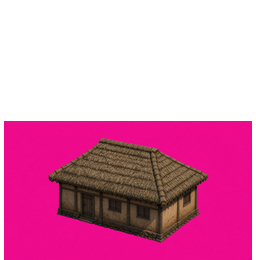
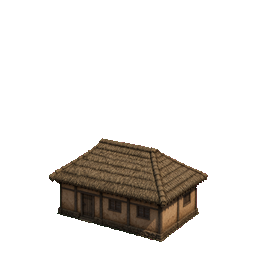
건물·프롭 마젠타 헤일로 제거
JPEG #FF00FF 잔상과 분홍 바닥 원반을 크로마로 걷어냈다.

diff --git a/game/asset-data.js b/game/asset-data.js
@@ -1,1 +1,1 @@
-const ASSET_DATA = {"assets": {"terr_cave": {"kind": "texture", "data": "assets/tex/terr_cave.jpg"}, "terr_dirt": {"kind": "texture", "data": "assets/tex/terr_dirt.jpg"}, "terr_floor": {"kind": "texture", "data": "assets/tex/terr_floor.jpg"}, "terr_grass": {"kind": "texture", "data": "assets/tex/terr_grass.jpg"}, "terr_mud": {"kind": "texture", "data": "assets/tex/terr_mud.jpg"}, "terr_pier": {"kind": "texture", "data": "assets/tex/terr_pier.jpg"}, "terr_reed": {"kind": "texture", "data": "assets/tex/terr_reed.jpg"}, "terr_rock": {"kind": "texture", "data": "assets/tex/terr_rock.jpg"}, "terr_salt": {"kind": "texture", "data": "assets/tex/terr_salt.jpg"}, "terr_sand": {"kind": "texture", "data": "assets/tex/terr_sand.jpg"}, "terr_sea": {"kind": "texture", "data": "assets/tex/terr_sea.jpg"}, "terr_stone": {"kind": "texture", "data": "assets/tex/terr_stone.jpg"}, "terr_wood": {"kind": "texture", "data": "assets/tex/terr_wood.jpg"}, "agent_dochi": {"dirs": 4, "cellW": 56, "cellH": 76, "anchorX": 28, "anchorY": 72, "clips": [{"key": "idle", "frames": 1}], "sheets": {"idle": "assets/chars/agent_dochi.png"}}, "agent_haeju": {"dirs": 4, "cellW": 56, "cellH": 76, "anchorX": 28, "anchorY": 72, "clips": [{"key": "idle", "frames": 1}], "sheets": {"idle": "assets/chars/agent_haeju.png"}}, "agent_mujin": {"dirs": 4, "cellW": 56, "cellH": 76, "anchorX": 28, "anchorY": 72, "clips": [{"key": "idle", "frames": 1}], "sheets": {"idle": "assets/chars/agent_mujin.png"}}, "agent_wolsim": {"dirs": 4, "cellW": 56, "cellH": 76, "anchorX": 28, "anchorY": 72, "clips": [{"key": "idle", "frames": 1}], "sheets": {"idle": "assets/chars/agent_wolsim.png"}}, "civil_believer": {"dirs": 4, "cellW": 56, "cellH": 76, "anchorX": 28, "anchorY": 72, "clips": [{"key": "idle", "frames": 1}], "sheets": {"idle": "assets/chars/civil_believer.png"}}, "civil_child": {"dirs": 4, "cellW": 56, "cellH": 76, "anchorX": 28, "anchorY": 72, "clips": [{"key": "idle", "frames": 1}], "sheets": {"idle": "assets/chars/civil_child.png"}}, "civil_patient": {"dirs": 4, "cellW": 56, "cellH": 76, "anchorX": 28, "anchorY": 72, "clips": [{"key": "idle", "frames": 1}], "sheets": {"idle": "assets/chars/civil_patient.png"}}, "civil_prisoner": {"dirs": 4, "cellW": 56, "cellH": 76, "anchorX": 28, "anchorY": 72, "clips": [{"key": "idle", "frames": 1}], "sheets": {"idle": "assets/chars/civil_prisoner.png"}}, "civil_villager": {"dirs": 4, "cellW": 56, "cellH": 76, "anchorX": 28, "anchorY": 72, "clips": [{"key": "idle", "frames": 1}], "sheets": {"idle": "assets/chars/civil_villager.png"}}, "guard_acolyte": {"dirs": 4, "cellW": 56, "cellH": 76, "anchorX": 28, "anchorY": 72, "clips": [{"key": "idle", "frames": 1}], "sheets": {"idle": "assets/chars/guard_acolyte.png"}}, "guard_priest": {"dirs": 4, "cellW": 56, "cellH": 76, "anchorX": 28, "anchorY": 72, "clips": [{"key": "idle", "frames": 1}], "sheets": {"idle": "assets/chars/guard_priest.png"}}, "guard_sailor": {"dirs": 4, "cellW": 56, "cellH": 76, "anchorX": 28, "anchorY": 72, "clips": [{"key": "idle", "frames": 1}], "sheets": {"idle": "assets/chars/guard_sailor.png"}}, "guard_soldier": {"dirs": 4, "cellW": 56, "cellH": 76, "anchorX": 28, "anchorY": 72, "clips": [{"key": "idle", "frames": 1}], "sheets": {"idle": "assets/chars/guard_soldier.png"}}, "guard_steward": {"dirs": 4, "cellW": 56, "cellH": 76, "anchorX": 28, "anchorY": 72, "clips": [{"key": "idle", "frames": 1}], "sheets": {"idle": "assets/chars/guard_steward.png"}}, "prop_altar": {"dirs": 1, "cellW": 60, "cellH": 52, "anchorX": 30, "anchorY": 50, "clips": [{"key": "idle", "frames": 1}], "sheets": {"idle": "assets/props/prop_altar.png"}}, "prop_belltower": {"dirs": 1, "cellW": 64, "cellH": 180, "anchorX": 32, "anchorY": 178, "clips": [{"key": "idle", "frames": 1}], "sheets": {"idle": "assets/props/prop_belltower.png"}}, "prop_boat": {"dirs": 1, "cellW": 110, "cellH": 56, "anchorX": 55, "anchorY": 54, "clips": [{"key": "idle", "frames": 1}], "sheets": {"idle": "assets/props/prop_boat.png"}}, "prop_bush": {"dirs": 1, "cellW": 56, "cellH": 48, "anchorX": 28, "anchorY": 46, "clips": [{"key": "idle", "frames": 1}], "sheets": {"idle": "assets/props/prop_bush.png"}}, "prop_cart": {"dirs": 1, "cellW": 80, "cellH": 56, "anchorX": 40, "anchorY": 54, "clips": [{"key": "idle", "frames": 1}], "sheets": {"idle": "assets/props/prop_cart.png"}}, "prop_crate": {"dirs": 1, "cellW": 44, "cellH": 44, "anchorX": 22, "anchorY": 42, "clips": [{"key": "idle", "frames": 1}], "sheets": {"idle": "assets/props/prop_crate.png"}}, "prop_jar": {"dirs": 1, "cellW": 32, "cellH": 44, "anchorX": 16, "anchorY": 42, "clips": [{"key": "idle", "frames": 1}], "sheets": {"idle": "assets/props/prop_jar.png"}}, "prop_kiln": {"dirs": 1, "cellW": 64, "cellH": 72, "anchorX": 32, "anchorY": 70, "clips": [{"key": "idle", "frames": 1}], "sheets": {"idle": "assets/props/prop_kiln.png"}}, "prop_lamp_off": {"dirs": 1, "cellW": 36, "cellH": 80, "anchorX": 18, "anchorY": 78, "clips": [{"key": "idle", "frames": 1}], "sheets": {"idle": "assets/props/prop_lamp_off.png"}}, "prop_lamp_on": {"dirs": 1, "cellW": 36, "cellH": 80, "anchorX": 18, "anchorY": 78, "clips": [{"key": "idle", "frames": 4}], "sheets": {"idle": "assets/props/prop_lamp_on.png"}}, "prop_net": {"dirs": 1, "cellW": 56, "cellH": 64, "anchorX": 28, "anchorY": 62, "clips": [{"key": "idle", "frames": 1}], "sheets": {"idle": "assets/props/prop_net.png"}}, "prop_pine": {"dirs": 1, "cellW": 80, "cellH": 160, "anchorX": 40, "anchorY": 158, "clips": [{"key": "idle", "frames": 1}], "sheets": {"idle": "assets/props/prop_pine.png"}}, "prop_rack": {"dirs": 1, "cellW": 60, "cellH": 64, "anchorX": 30, "anchorY": 62, "clips": [{"key": "idle", "frames": 1}], "sheets": {"idle": "assets/props/prop_rack.png"}}, "prop_rock": {"dirs": 1, "cellW": 52, "cellH": 40, "anchorX": 26, "anchorY": 38, "clips": [{"key": "idle", "frames": 1}], "sheets": {"idle": "assets/props/prop_rock.png"}}, "prop_stalag": {"dirs": 1, "cellW": 40, "cellH": 80, "anchorX": 20, "anchorY": 78, "clips": [{"key": "idle", "frames": 1}], "sheets": {"idle": "assets/props/prop_stalag.png"}}, "prop_stone_pile": {"dirs": 1, "cellW": 56, "cellH": 40, "anchorX": 28, "anchorY": 38, "clips": [{"key": "idle", "frames": 1}], "sheets": {"idle": "assets/props/prop_stone_pile.png"}}, "prop_tree": {"dirs": 1, "cellW": 90, "cellH": 140, "anchorX": 45, "anchorY": 138, "clips": [{"key": "idle", "frames": 1}], "sheets": {"idle": "assets/props/prop_tree.png"}}, "prop_well": {"dirs": 1, "cellW": 64, "cellH": 72, "anchorX": 32, "anchorY": 70, "clips": [{"key": "idle", "frames": 1}], "sheets": {"idle": "assets/props/prop_well.png"}}, "prop_wreck": {"dirs": 1, "cellW": 110, "cellH": 52, "anchorX": 55, "anchorY": 50, "clips": [{"key": "idle", "frames": 1}], "sheets": {"idle": "assets/props/prop_wreck.png"}}, "bld_thatch_2x2": {"dirs": 1, "cellW": 256, "cellH": 260, "anchorX": 128, "anchorY": 258, "clips": [{"key": "idle", "frames": 1}], "sheets": {"idle": "assets/bld/bld_thatch_2x2.png"}}, "bld_thatch_3x2": {"dirs": 1, "cellW": 320, "cellH": 292, "anchorX": 160, "anchorY": 290, "clips": [{"key": "idle", "frames": 1}], "sheets": {"idle": "assets/bld/bld_thatch_3x2.png"}}, "bld_thatch_5x4": {"dirs": 1, "cellW": 576, "cellH": 422, "anchorX": 288, "anchorY": 420, "clips": [{"key": "idle", "frames": 1}], "sheets": {"idle": "assets/bld/bld_thatch_5x4.png"}}, "bld_tile_2x2": {"dirs": 1, "cellW": 256, "cellH": 262, "anchorX": 128, "anchorY": 260, "clips": [{"key": "idle", "frames": 1}], "sheets": {"idle": "assets/bld/bld_tile_2x2.png"}}, "bld_tile_3x2": {"dirs": 1, "cellW": 320, "cellH": 294, "anchorX": 160, "anchorY": 292, "clips": [{"key": "idle", "frames": 1}], "sheets": {"idle": "assets/bld/bld_tile_3x2.png"}}, "bld_tile_4x4": {"dirs": 1, "cellW": 512, "cellH": 392, "anchorX": 256, "anchorY": 390, "clips": [{"key": "idle", "frames": 1}], "sheets": {"idle": "assets/bld/bld_tile_4x4.png"}}, "bld_tile_6x4": {"dirs": 1, "cellW": 640, "cellH": 456, "anchorX": 320, "anchorY": 454, "clips": [{"key": "idle", "frames": 1}], "sheets": {"idle": "assets/bld/bld_tile_6x4.png"}}, "bld_wall": {"dirs": 1, "cellW": 128, "cellH": 136, "anchorX": 64, "anchorY": 134, "clips": [{"key": "idle", "frames": 1}], "sheets": {"idle": "assets/bld/bld_wall.png"}}, "bld_west_8x6": {"dirs": 1, "cellW": 896, "cellH": 604, "anchorX": 448, "anchorY": 602, "clips": [{"key": "idle", "frames": 1}], "sheets": {"idle": "assets/bld/bld_west_8x6.png"}}}};
+const ASSET_DATA = {"assets": {"terr_cave": {"kind": "texture", "data": "assets/tex/terr_cave.jpg?v=4"}, "terr_dirt": {"kind": "texture", "data": "assets/tex/terr_dirt.jpg?v=4"}, "terr_floor": {"kind": "texture", "data": "assets/tex/terr_floor.jpg?v=4"}, "terr_grass": {"kind": "texture", "data": "assets/tex/terr_grass.jpg?v=4"}, "terr_mud": {"kind": "texture", "data": "assets/tex/terr_mud.jpg?v=4"}, "terr_pier": {"kind": "texture", "data": "assets/tex/terr_pier.jpg?v=4"}, "terr_reed": {"kind": "texture", "data": "assets/tex/terr_reed.jpg?v=4"}, "terr_rock": {"kind": "texture", "data": "assets/tex/terr_rock.jpg?v=4"}, "terr_salt": {"kind": "texture", "data": "assets/tex/terr_salt.jpg?v=4"}, "terr_sand": {"kind": "texture", "data": "assets/tex/terr_sand.jpg?v=4"}, "terr_sea": {"kind": "texture", "data": "assets/tex/terr_sea.jpg?v=4"}, "terr_stone": {"kind": "texture", "data": "assets/tex/terr_stone.jpg?v=4"}, "terr_wood": {"kind": "texture", "data": "assets/tex/terr_wood.jpg?v=4"}, "agent_dochi": {"dirs": 4, "cellW": 56, "cellH": 76, "anchorX": 28, "anchorY": 72, "clips": [{"key": "idle", "frames": 1}], "sheets": {"idle": "assets/chars/agent_dochi.png?v=4"}}, "agent_haeju": {"dirs": 4, "cellW": 56, "cellH": 76, "anchorX": 28, "anchorY": 72, "clips": [{"key": "idle", "frames": 1}], "sheets": {"idle": "assets/chars/agent_haeju.png?v=4"}}, "agent_mujin": {"dirs": 4, "cellW": 56, "cellH": 76, "anchorX": 28, "anchorY": 72, "clips": [{"key": "idle", "frames": 1}], "sheets": {"idle": "assets/chars/agent_mujin.png?v=4"}}, "agent_wolsim": {"dirs": 4, "cellW": 56, "cellH": 76, "anchorX": 28, "anchorY": 72, "clips": [{"key": "idle", "frames": 1}], "sheets": {"idle": "assets/chars/agent_wolsim.png?v=4"}}, "civil_believer": {"dirs": 4, "cellW": 56, "cellH": 76, "anchorX": 28, "anchorY": 72, "clips": [{"key": "idle", "frames": 1}], "sheets": {"idle": "assets/chars/civil_believer.png?v=4"}}, "civil_child": {"dirs": 4, "cellW": 56, "cellH": 76, "anchorX": 28, "anchorY": 72, "clips": [{"key": "idle", "frames": 1}], "sheets": {"idle": "assets/chars/civil_child.png?v=4"}}, "civil_patient": {"dirs": 4, "cellW": 56, "cellH": 76, "anchorX": 28, "anchorY": 72, "clips": [{"key": "idle", "frames": 1}], "sheets": {"idle": "assets/chars/civil_patient.png?v=4"}}, "civil_prisoner": {"dirs": 4, "cellW": 56, "cellH": 76, "anchorX": 28, "anchorY": 72, "clips": [{"key": "idle", "frames": 1}], "sheets": {"idle": "assets/chars/civil_prisoner.png?v=4"}}, "civil_villager": {"dirs": 4, "cellW": 56, "cellH": 76, "anchorX": 28, "anchorY": 72, "clips": [{"key": "idle", "frames": 1}], "sheets": {"idle": "assets/chars/civil_villager.png?v=4"}}, "guard_acolyte": {"dirs": 4, "cellW": 56, "cellH": 76, "anchorX": 28, "anchorY": 72, "clips": [{"key": "idle", "frames": 1}], "sheets": {"idle": "assets/chars/guard_acolyte.png?v=4"}}, "guard_priest": {"dirs": 4, "cellW": 56, "cellH": 76, "anchorX": 28, "anchorY": 72, "clips": [{"key": "idle", "frames": 1}], "sheets": {"idle": "assets/chars/guard_priest.png?v=4"}}, "guard_sailor": {"dirs": 4, "cellW": 56, "cellH": 76, "anchorX": 28, "anchorY": 72, "clips": [{"key": "idle", "frames": 1}], "sheets": {"idle": "assets/chars/guard_sailor.png?v=4"}}, "guard_soldier": {"dirs": 4, "cellW": 56, "cellH": 76, "anchorX": 28, "anchorY": 72, "clips": [{"key": "idle", "frames": 1}], "sheets": {"idle": "assets/chars/guard_soldier.png?v=4"}}, "guard_steward": {"dirs": 4, "cellW": 56, "cellH": 76, "anchorX": 28, "anchorY": 72, "clips": [{"key": "idle", "frames": 1}], "sheets": {"idle": "assets/chars/guard_steward.png?v=4"}}, "prop_altar": {"dirs": 1, "cellW": 60, "cellH": 52, "anchorX": 30, "anchorY": 50, "clips": [{"key": "idle", "frames": 1}], "sheets": {"idle": "assets/props/prop_altar.png?v=4"}}, "prop_belltower": {"dirs": 1, "cellW": 64, "cellH": 180, "anchorX": 32, "anchorY": 178, "clips": [{"key": "idle", "frames": 1}], "sheets": {"idle": "assets/props/prop_belltower.png?v=4"}}, "prop_boat": {"dirs": 1, "cellW": 110, "cellH": 56, "anchorX": 55, "anchorY": 54, "clips": [{"key": "idle", "frames": 1}], "sheets": {"idle": "assets/props/prop_boat.png?v=4"}}, "prop_bush": {"dirs": 1, "cellW": 56, "cellH": 48, "anchorX": 28, "anchorY": 46, "clips": [{"key": "idle", "frames": 1}], "sheets": {"idle": "assets/props/prop_bush.png?v=4"}}, "prop_cart": {"dirs": 1, "cellW": 80, "cellH": 56, "anchorX": 40, "anchorY": 54, "clips": [{"key": "idle", "frames": 1}], "sheets": {"idle": "assets/props/prop_cart.png?v=4"}}, "prop_crate": {"dirs": 1, "cellW": 44, "cellH": 44, "anchorX": 22, "anchorY": 42, "clips": [{"key": "idle", "frames": 1}], "sheets": {"idle": "assets/props/prop_crate.png?v=4"}}, "prop_jar": {"dirs": 1, "cellW": 32, "cellH": 44, "anchorX": 16, "anchorY": 42, "clips": [{"key": "idle", "frames": 1}], "sheets": {"idle": "assets/props/prop_jar.png?v=4"}}, "prop_kiln": {"dirs": 1, "cellW": 64, "cellH": 72, "anchorX": 32, "anchorY": 70, "clips": [{"key": "idle", "frames": 1}], "sheets": {"idle": "assets/props/prop_kiln.png?v=4"}}, "prop_lamp_off": {"dirs": 1, "cellW": 36, "cellH": 80, "anchorX": 18, "anchorY": 78, "clips": [{"key": "idle", "frames": 1}], "sheets": {"idle": "assets/props/prop_lamp_off.png?v=4"}}, "prop_lamp_on": {"dirs": 1, "cellW": 36, "cellH": 80, "anchorX": 18, "anchorY": 78, "clips": [{"key": "idle", "frames": 4}], "sheets": {"idle": "assets/props/prop_lamp_on.png?v=4"}}, "prop_net": {"dirs": 1, "cellW": 56, "cellH": 64, "anchorX": 28, "anchorY": 62, "clips": [{"key": "idle", "frames": 1}], "sheets": {"idle": "assets/props/prop_net.png?v=4"}}, "prop_pine": {"dirs": 1, "cellW": 80, "cellH": 160, "anchorX": 40, "anchorY": 158, "clips": [{"key": "idle", "frames": 1}], "sheets": {"idle": "assets/props/prop_pine.png?v=4"}}, "prop_rack": {"dirs": 1, "cellW": 60, "cellH": 64, "anchorX": 30, "anchorY": 62, "clips": [{"key": "idle", "frames": 1}], "sheets": {"idle": "assets/props/prop_rack.png?v=4"}}, "prop_rock": {"dirs": 1, "cellW": 52, "cellH": 40, "anchorX": 26, "anchorY": 38, "clips": [{"key": "idle", "frames": 1}], "sheets": {"idle": "assets/props/prop_rock.png?v=4"}}, "prop_stalag": {"dirs": 1, "cellW": 40, "cellH": 80, "anchorX": 20, "anchorY": 78, "clips": [{"key": "idle", "frames": 1}], "sheets": {"idle": "assets/props/prop_stalag.png?v=4"}}, "prop_stone_pile": {"dirs": 1, "cellW": 56, "cellH": 40, "anchorX": 28, "anchorY": 38, "clips": [{"key": "idle", "frames": 1}], "sheets": {"idle": "assets/props/prop_stone_pile.png?v=4"}}, "prop_tree": {"dirs": 1, "cellW": 90, "cellH": 140, "anchorX": 45, "anchorY": 138, "clips": [{"key": "idle", "frames": 1}], "sheets": {"idle": "assets/props/prop_tree.png?v=4"}}, "prop_well": {"dirs": 1, "cellW": 64, "cellH": 72, "anchorX": 32, "anchorY": 70, "clips": [{"key": "idle", "frames": 1}], "sheets": {"idle": "assets/props/prop_well.png?v=4"}}, "prop_wreck": {"dirs": 1, "cellW": 110, "cellH": 52, "anchorX": 55, "anchorY": 50, "clips": [{"key": "idle", "frames": 1}], "sheets": {"idle": "assets/props/prop_wreck.png?v=4"}}, "bld_thatch_2x2": {"dirs": 1, "cellW": 256, "cellH": 260, "anchorX": 128, "anchorY": 258, "clips": [{"key": "idle", "frames": 1}], "sheets": {"idle": "assets/bld/bld_thatch_2x2.png?v=4"}}, "bld_thatch_3x2": {"dirs": 1, "cellW": 320, "cellH": 292, "anchorX": 160, "anchorY": 290, "clips": [{"key": "idle", "frames": 1}], "sheets": {"idle": "assets/bld/bld_thatch_3x2.png?v=4"}}, "bld_thatch_5x4": {"dirs": 1, "cellW": 576, "cellH": 422, "anchorX": 288, "anchorY": 420, "clips": [{"key": "idle", "frames": 1}], "sheets": {"idle": "assets/bld/bld_thatch_5x4.png?v=4"}}, "bld_tile_2x2": {"dirs": 1, "cellW": 256, "cellH": 262, "anchorX": 128, "anchorY": 260, "clips": [{"key": "idle", "frames": 1}], "sheets": {"idle": "assets/bld/bld_tile_2x2.png?v=4"}}, "bld_tile_3x2": {"dirs": 1, "cellW": 320, "cellH": 294, "anchorX": 160, "anchorY": 292, "clips": [{"key": "idle", "frames": 1}], "sheets": {"idle": "assets/bld/bld_tile_3x2.png?v=4"}}, "bld_tile_4x4": {"dirs": 1, "cellW": 512, "cellH": 392, "anchorX": 256, "anchorY": 390, "clips": [{"key": "idle", "frames": 1}], "sheets": {"idle": "assets/bld/bld_tile_4x4.png?v=4"}}, "bld_tile_6x4": {"dirs": 1, "cellW": 640, "cellH": 456, "anchorX": 320, "anchorY": 454, "clips": [{"key": "idle", "frames": 1}], "sheets": {"idle": "assets/bld/bld_tile_6x4.png?v=4"}}, "bld_wall": {"dirs": 1, "cellW": 128, "cellH": 136, "anchorX": 64, "anchorY": 134, "clips": [{"key": "idle", "frames": 1}], "sheets": {"idle": "assets/bld/bld_wall.png?v=4"}}, "bld_west_8x6": {"dirs": 1, "cellW": 896, "cellH": 604, "anchorX": 448, "anchorY": 602, "clips": [{"key": "idle", "frames": 1}], "sheets": {"idle": "assets/bld/bld_west_8x6.png?v=4"}}}};

diff --git a/STATUS.md b/STATUS.md
@@ -1,13 +1,13 @@
 # 무한인천: 해무의 성가 — 작업 현황
 
-기록일: 2026-08-19 (코만도스 2차 감각 패스)  
+기록일: 2026-08-19 (건물 마젠타 잔상 제거)  
 대상: 소유자 단독 열람. 이 저장소는 **private**.
 
 ---
 
 ## 한 줄
 
-그래픽을 코만도스 프리렌더로 맞춘 뒤, 백서 1차(이미 들어 있음)에 더해 **2차 감각**을 넣었다. 검문·등불 복구·부대 선택·난이도·발소리·결과 통계가 돈다.
+건물·나무 주위 보라색은 스프라이트 키컬러(`#FF00FF`) JPEG 잔상+분홍 바닥 원반이었다. 크로마를 다시 돌려 걷어냈다.
 
 ---
 
@@ -22,12 +22,13 @@
 | 1차 | D5 깨어남+새끼줄 | 있음 |
 | 1차 | D6 증원+수색 분담 | 있음 |
 | 1차 | D-fix 가마2·상자4·등불19 | 있음 |
-| 2차 | D7 집사 3초 문답 | **이번에 넣음** |
-| 2차 | D8 등불 12초 뒤 신도 재점화 | **이번에 넣음** |
-| 2차 | D9 Ctrl 박스·부대 이동 | **이번에 넣음** |
-| 2차 | D10 쉬움/보통/어려움 | **이번에 넣음** |
-| 2차 | D11 발소리·문·물·경보·볼륨 | **이번에 넣음** |
-| 2차 | D12 결과 통계 | **이번에 넣음** |
+| 2차 | D7 집사 3초 문답 | 있음 |
+| 2차 | D8 등불 12초 뒤 신도 재점화 | 있음 |
+| 2차 | D9 Ctrl 박스·부대 이동 | 있음 |
+| 2차 | D10 쉬움/보통/어려움 | 있음 |
+| 2차 | D11 발소리·문·물·경보·볼륨 | 있음 |
+| 2차 | D12 결과 통계 | 있음 |
+| 그래픽 | 건물/프롭 마젠타 헤일로 | **이번에 제거** |
 
 ---
 
@@ -38,5 +39,3 @@
 - 집사가 변장한 해주를 세우면 3초 문답. 움직이면 즉시 들킴
 - 끈 등불은 12초 뒤 신도가 다시 켠다
 - 일시정지에 소리 크기 슬라이더
-
-맵 크기·조수 공식·대원 역할은 그대로. 저장소는 계속 비공개.
